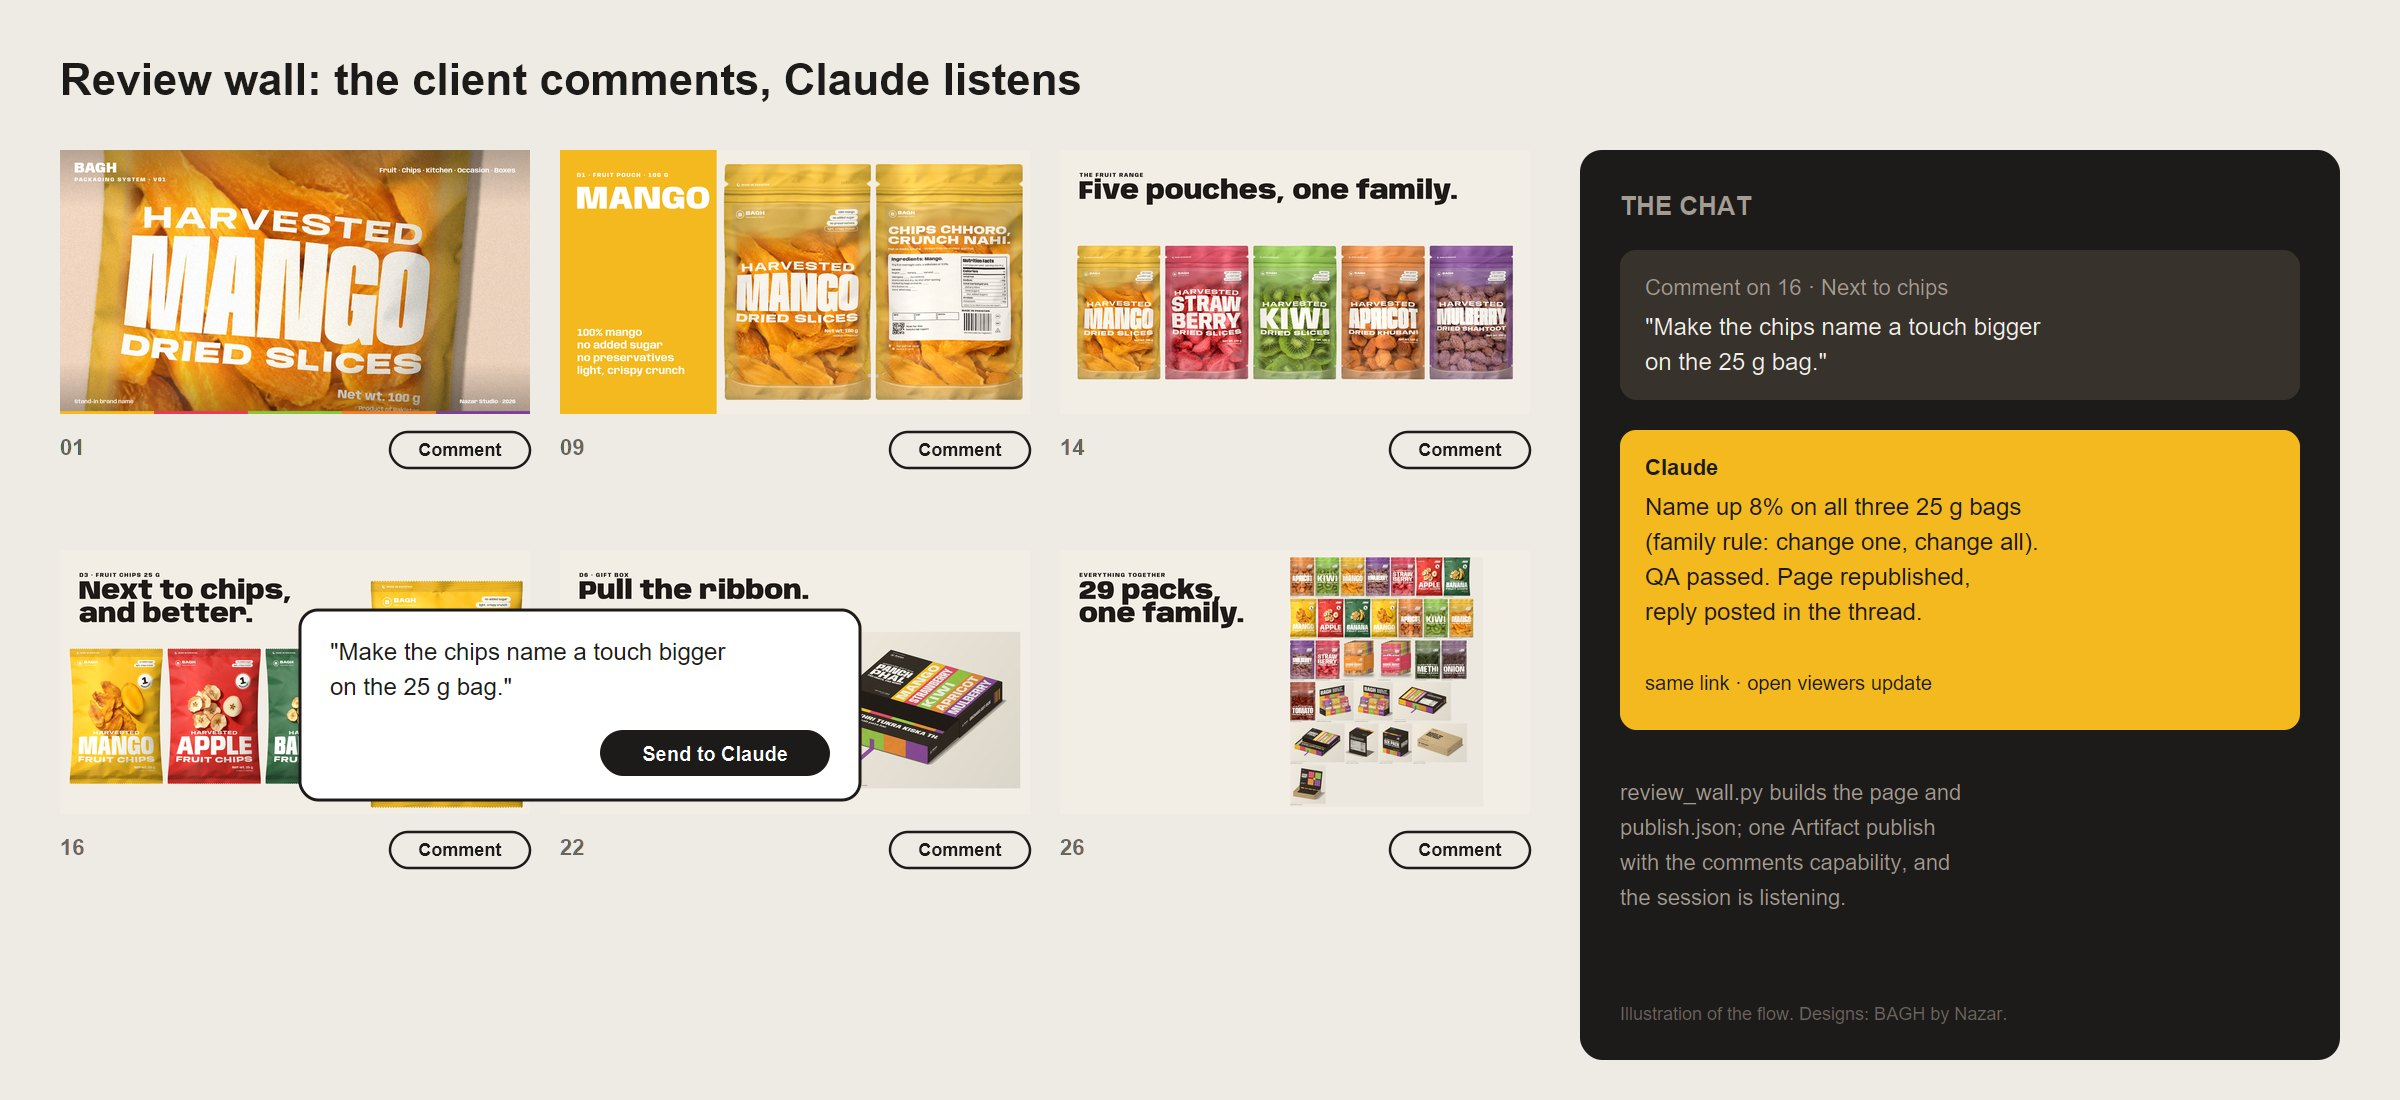
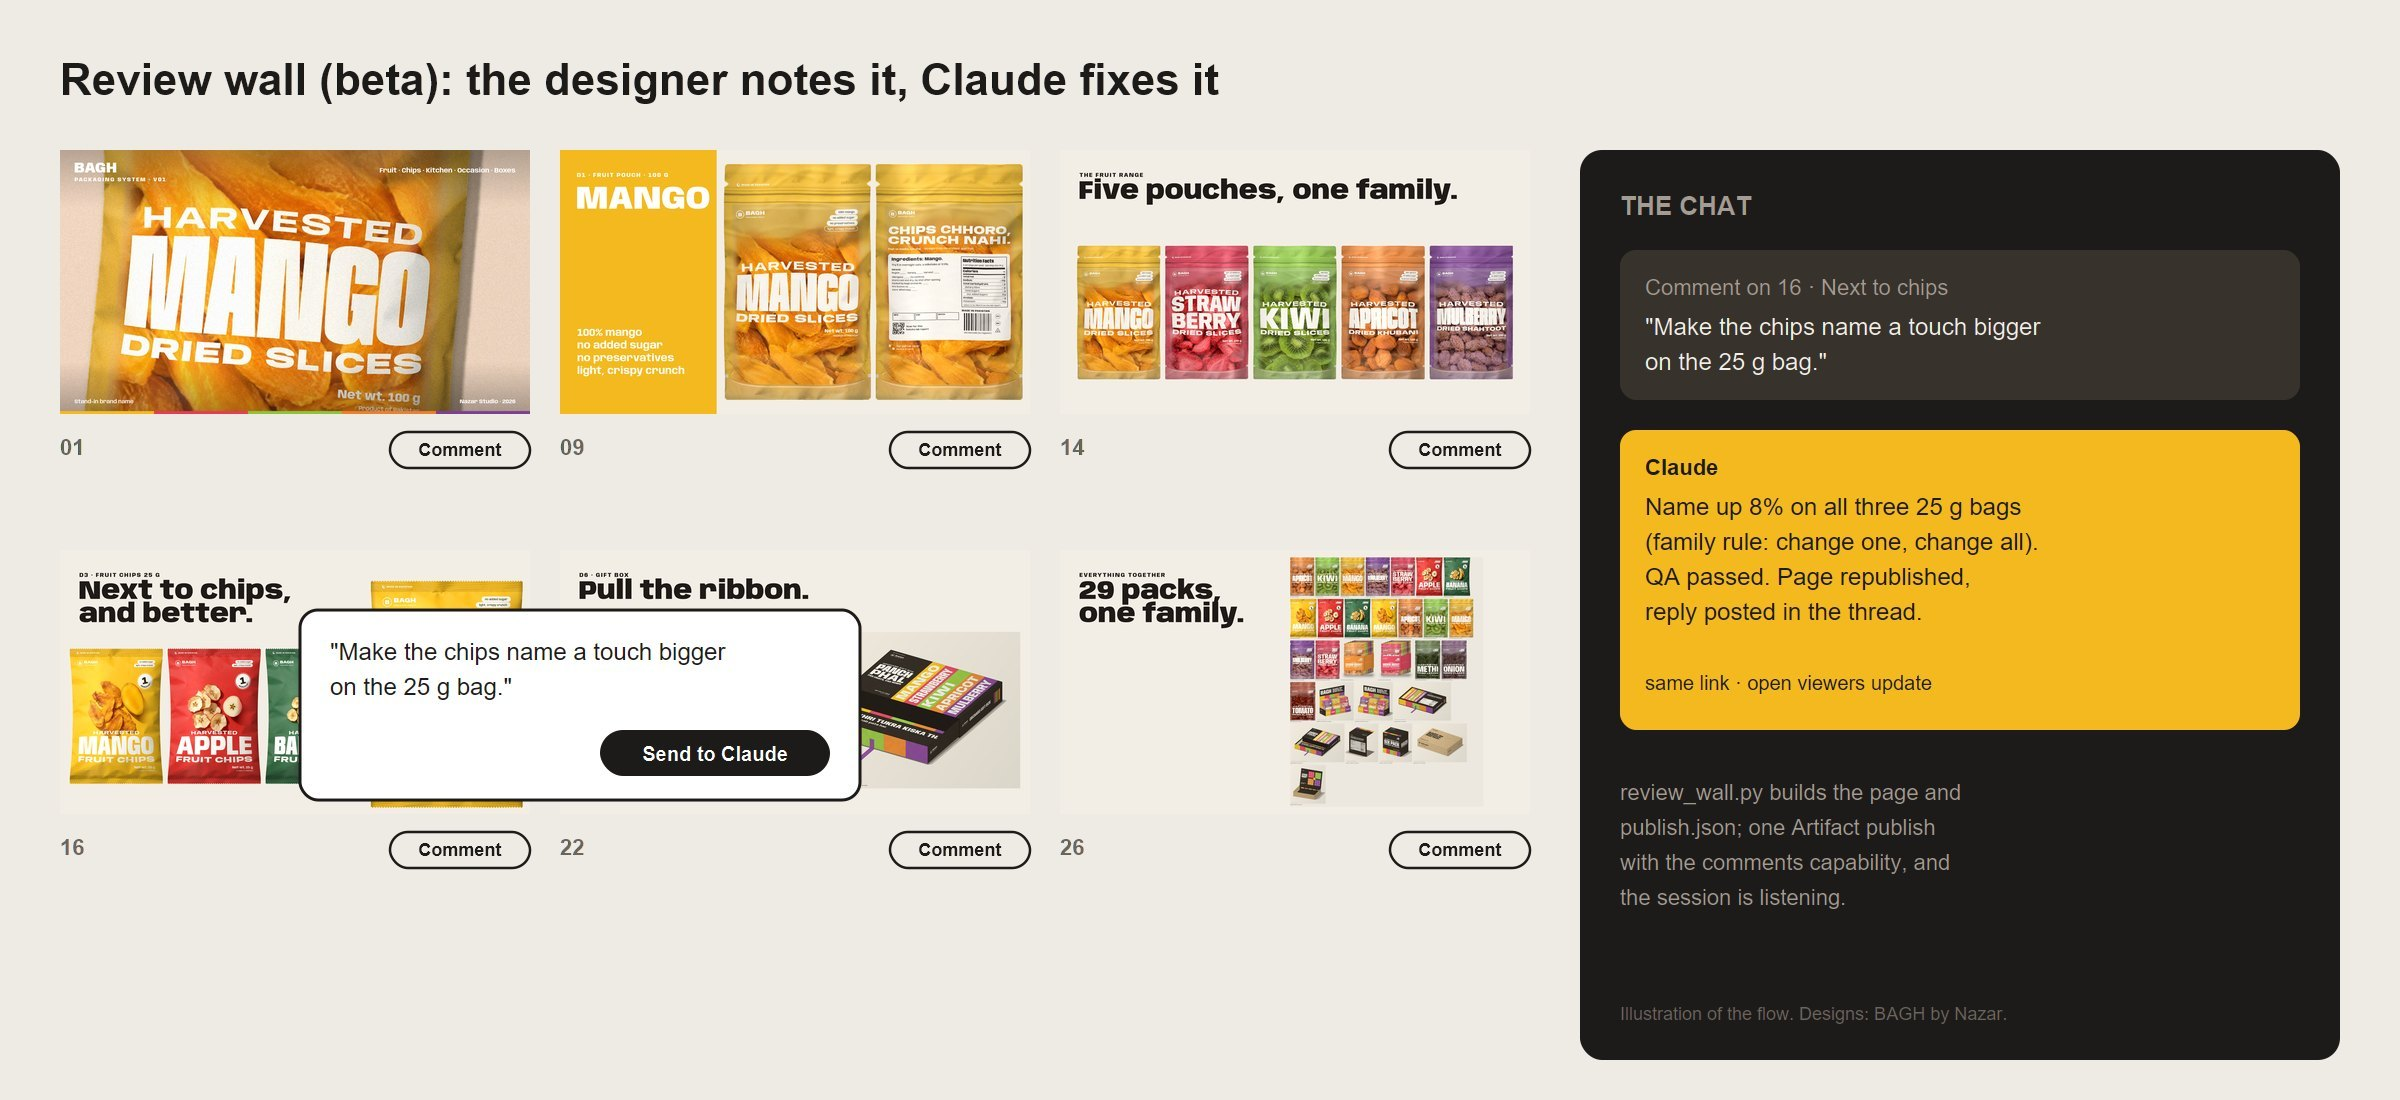
Review wall framed as a designer beta (studio tool; client still gets the PDF): README, guide, engine default, demo card

Changed region(s): [[0.125, 0.0618, 0.5312, 0.0927]]

diff --git a/nazar-core/engine/review_wall.py b/nazar-core/engine/review_wall.py
@@ -1,4 +1,4 @@
-"""Review wall: a folder of designs -> a private live page where the client or designer comments on each design,
+"""Review wall: a folder of designs -> a private live page (beta, for the designer) to comment on each design in progress,
 and every note sent with "Send to Claude" lands in the working chat. Generic, brand-free.
 
     python review_wall.py <images folder> <out folder> --title "Brand review" [--titles titles.json] [--accent "#hex,#hex"]
@@ -72,7 +72,7 @@ PAGES.forEach(([f, t, s], i) => {{
 def main():
     ap = argparse.ArgumentParser(); ap.add_argument("src"); ap.add_argument("out")
     ap.add_argument("--title", default="Review wall"); ap.add_argument("--titles"); ap.add_argument("--accent", default="")
-    ap.add_argument("--kicker", default="Design review"); ap.add_argument("--footer", default="Private review page. Comments stay with this page.")
+    ap.add_argument("--kicker", default="Designer review · beta"); ap.add_argument("--footer", default="Private review page. Comments stay with this page.")
     a = ap.parse_args()
     files = sorted(f for f in os.listdir(a.src) if f.lower().endswith(EXT))
     if not files: sys.exit("no images in " + a.src)

diff --git a/README.md b/README.md
@@ -72,20 +72,20 @@ This was one shot, with no designer feedback; in real use you review the first s
 
 ![29 packs, one family: every BAGH pouch, chips bag, kit and box](assets/demo-pack-family.jpg)
 
-## Review live, with Claude listening
+## Review live, with Claude listening (beta)
 
 ![Review wall: numbered designs with a Comment button each; a note sent to Claude arrives in the chat, Claude fixes it across the family, runs QA and republishes](assets/demo-review-wall.jpg)
 
-Show the client the work on a live page instead of a PDF they mark up and email back.
+**Beta, for the designer.** Review the work on a live page while it's being made, instead of screenshots pasted into chat. Note what to change on the design itself, and the working session picks it up.
 
 ```bash
 python nazar-core/engine/review_wall.py <designs folder> <out folder> --title "<Brand> review"
 ```
 
 - **One command, one publish.** The engine writes the page, the images and `publish.json`. Claude publishes it as a private claude.ai Artifact with the comments capability.
-- **Comment on the design itself.** Each design is a numbered sheet with its own Comment button, and the numbers match the deck.
+- **Comment on the design itself.** Each design is a numbered sheet with its own Comment button, and the numbers match the deck, so "20" means the same in chat, page and PDF.
 - **Send to Claude, and the chat answers.** The note lands in the working session. Claude makes the fix in the engine, applies it across the whole family, runs QA, republishes to the same link and replies in the thread. Anyone with the page open sees the update.
-- **Private by default.** Only the people the owner shares it with can open it. How it works: [`review_wall.md`](nazar-core/references/review_wall.md).
+- **Private by default.** It's a studio tool, not the client deliverable: the client still gets the finished PDF. Only the people the owner shares it with can open it. How it works: [`review_wall.md`](nazar-core/references/review_wall.md).
 
 ## Proof, on real work
 

diff --git a/nazar-core/references/review_wall.md b/nazar-core/references/review_wall.md
@@ -1,6 +1,6 @@
-# Review wall: live comments that reach Claude
+# Review wall (beta, for the designer): live comments that reach Claude
 
-A private page that shows every design as a numbered sheet. The client or designer comments on any sheet and presses **Send to Claude**. The note arrives in the working chat, Claude fixes the design and republishes, and the page updates for everyone who has it open.
+A private studio page that shows every design as a numbered sheet, made for the designer reviewing work in progress (the client still gets the finished PDF). The designer comments on any sheet and presses **Send to Claude**. The note arrives in the working chat, Claude fixes the design and republishes, and the page updates for everyone who has it open.
 
 ## Fire it up (three steps)
 1. **Build:**
